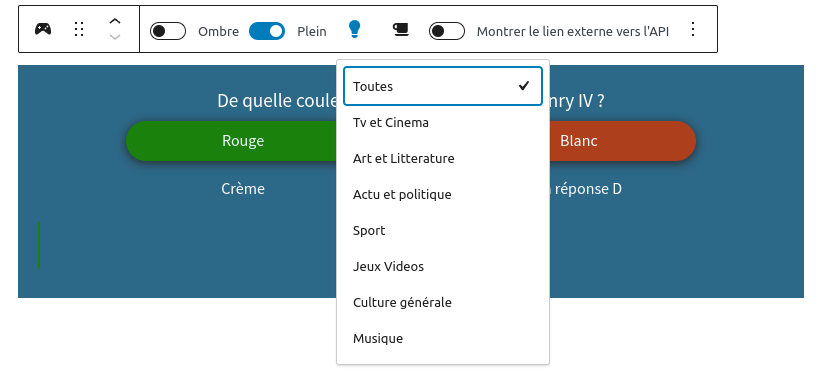
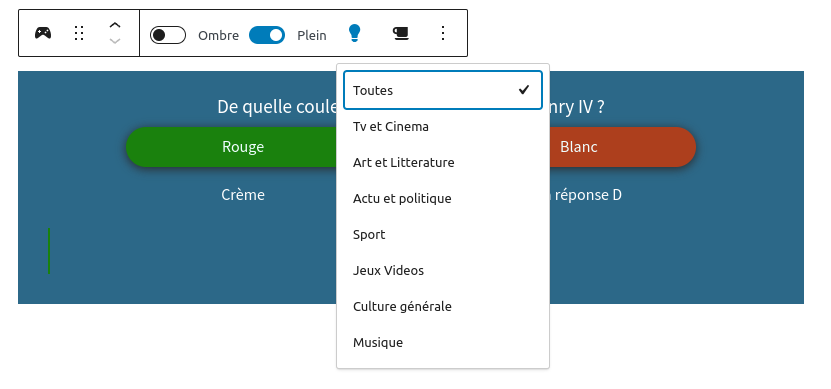
remove attribution

diff --git a/build/index.js b/build/index.js
@@ -1,1 +1,1 @@
-!function(){"use strict";var e,t={888:function(){var e=window.wp.blocks,t=window.wp.element,l=(window.wp.i18n,window.wp.blockEditor),i=window.wp.components,n=e=>{let{attributes:l,setAttributes:n}=e;return(0,t.createElement)(i.ToggleControl,{label:"Ombre",checked:l.elevation,onChange:()=>n({elevation:!l.elevation}),className:"menu-icon-simplequizblock"})},c=e=>{let{attributes:l,setAttributes:n}=e;return(0,t.createElement)(i.ToggleControl,{label:"Plein",checked:l.fill,onChange:()=>n({fill:!l.fill}),className:"menu-icon-simplequizblock"})},r=e=>{let{attributes:l,setAttributes:n}=e;return(0,t.createElement)(i.DropdownMenu,{icon:"lightbulb",label:"Choisir une catégorie",className:"menu-icon-simplequizblock"},(e=>{let{onClose:c}=e;return(0,t.createElement)(i.MenuGroup,null,(0,t.createElement)(i.MenuItem,{isSelected:"all"===l.category,icon:"all"===l.category?"yes":null,onClick:()=>{n({category:"all"}),c()}},"Toutes"),(0,t.createElement)(i.MenuItem,{isSelected:"tv_cinema"===l.category,icon:"tv_cinema"===l.category?"yes":null,onClick:()=>{n({category:"tv_cinema"}),c()}},"Tv et Cinema"),(0,t.createElement)(i.MenuItem,{isSelected:"art_litterature"===l.category,icon:"art_litterature"===l.category?"yes":null,onClick:()=>{n({category:"art_litterature"}),c()}},"Art et Litterature"),(0,t.createElement)(i.MenuItem,{isSelected:"actu_politique"===l.category,icon:"actu_politique"===l.category?"yes":null,onClick:()=>{n({category:"actu_politique"}),c()}},"Actu et politique"),(0,t.createElement)(i.MenuItem,{isSelected:"sport"===l.category,icon:"sport"===l.category?"yes":null,onClick:()=>{n({category:"sport"}),c()}},"Sport"),(0,t.createElement)(i.MenuItem,{isSelected:"jeux_videos"===l.category,icon:"jeux_videos"===l.category?"yes":null,onClick:()=>{n({category:"jeux_videos"}),c()}},"Jeux Videos"),(0,t.createElement)(i.MenuItem,{isSelected:"culutre_generale"===l.category,icon:"culutre_generale"===l.category?"yes":null,onClick:()=>{n({category:"culutre_generale"}),c()}},"Culture générale"),(0,t.createElement)(i.MenuItem,{isSelected:"musique"===l.category,icon:"musique"===l.category?"yes":null,onClick:()=>{n({category:"musique"}),c()}},"Musique"))}))},o=e=>{let{attributes:l,setAttributes:n}=e;return(0,t.createElement)(i.DropdownMenu,{icon:"coffee",label:"Choisir une difficulté",className:"menu-icon-simplequizblock"},(e=>{let{onClose:c}=e;return(0,t.createElement)(t.Fragment,null,(0,t.createElement)(i.MenuGroup,null,(0,t.createElement)(i.MenuItem,{isSelected:"all"===l.difficulty,icon:"all"===l.difficulty?"yes":null,onClick:()=>{n({difficulty:"all"}),c()}},"Toutes"),(0,t.createElement)(i.MenuItem,{isSelected:"facile"===l.difficulty,icon:"facile"===l.difficulty?"yes":null,onClick:()=>{n({difficulty:"facile"}),c()}},"Facile"),(0,t.createElement)(i.MenuItem,{isSelected:"normal"===l.difficulty,icon:"normal"===l.difficulty?"yes":null,onClick:()=>{n({difficulty:"normal"}),c()}},"Normal"),(0,t.createElement)(i.MenuItem,{isSelected:"difficile"===l.difficulty,icon:"difficile"===l.difficulty?"yes":null,onClick:()=>{n({difficulty:"difficile"}),c()}},"Difficile")))}))},u=e=>{let{attributes:l,setAttributes:n}=e;return(0,t.createElement)(i.ToggleControl,{label:"Montrer le lien externe vers l'API",checked:l.showLink,onChange:()=>n({showLink:!l.showLink}),className:"menu-icon-simplequizblock"})},a=JSON.parse('{"u2":"simplequizblock/simplequizblock"}');(0,e.registerBlockType)(a.u2,{edit:function(e){let{attributes:i,setAttributes:a}=e;return(0,t.createElement)(t.Fragment,null,(0,t.createElement)(l.BlockControls,null,(0,t.createElement)(n,{attributes:i,setAttributes:a}),(0,t.createElement)(c,{attributes:i,setAttributes:a}),(0,t.createElement)(r,{attributes:i,setAttributes:a}),(0,t.createElement)(o,{attributes:i,setAttributes:a}),(0,t.createElement)(u,{attributes:i,setAttributes:a})),(0,t.createElement)("div",(0,l.useBlockProps)(),(0,t.createElement)("div",{className:"simplequizblock-container "+(i.elevation?"simplequizblock-shadow":"")},(0,t.createElement)("div",{className:"simplequizblock-question"},"De quelle couleur est le cheval blanc d'Henry IV ?"),(0,t.createElement)("div",{className:"simplequizblock-answers"},(0,t.createElement)("div",{className:"simplequizblock-unique-answer "+(i.fill?"simplequizblock-good-fill":"simplequizblock-good-border")},"Rouge"),(0,t.createElement)("div",{className:"simplequizblock-unique-answer "+(i.fill?"simplequizblock-bad-fill":"simplequizblock-bad-border")},"Blanc"),(0,t.createElement)("div",{className:"simplequizblock-unique-answer"},"Crème"),(0,t.createElement)("div",{className:"simplequizblock-unique-answer"},"La réponse D")),(0,t.createElement)("div",{className:"simplequizblock-result"},(0,t.createElement)("div",{className:"simplequizblock-good-answer"},"'Félicitation ! 🥳'"),i.showLink?(0,t.createElement)("div",{className:"simplequizblock-signature"},(0,t.createElement)("p",{class:"simplequizblock-signature-link"},"Proposez vos questions")):null))))}})}},l={};function i(e){var n=l[e];if(void 0!==n)return n.exports;var c=l[e]={exports:{}};return t[e](c,c.exports,i),c.exports}i.m=t,e=[],i.O=function(t,l,n,c){if(!l){var r=1/0;for(s=0;s<e.length;s++){l=e[s][0],n=e[s][1],c=e[s][2];for(var o=!0,u=0;u<l.length;u++)(!1&c||r>=c)&&Object.keys(i.O).every((function(e){return i.O[e](l[u])}))?l.splice(u--,1):(o=!1,c<r&&(r=c));if(o){e.splice(s--,1);var a=n();void 0!==a&&(t=a)}}return t}c=c||0;for(var s=e.length;s>0&&e[s-1][2]>c;s--)e[s]=e[s-1];e[s]=[l,n,c]},i.o=function(e,t){return Object.prototype.hasOwnProperty.call(e,t)},function(){var e={826:0,431:0};i.O.j=function(t){return 0===e[t]};var t=function(t,l){var n,c,r=l[0],o=l[1],u=l[2],a=0;if(r.some((function(t){return 0!==e[t]}))){for(n in o)i.o(o,n)&&(i.m[n]=o[n]);if(u)var s=u(i)}for(t&&t(l);a<r.length;a++)c=r[a],i.o(e,c)&&e[c]&&e[c][0](),e[c]=0;return i.O(s)},l=self.webpackChunksimplequizblock=self.webpackChunksimplequizblock||[];l.forEach(t.bind(null,0)),l.push=t.bind(null,l.push.bind(l))}();var n=i.O(void 0,[431],(function(){return i(888)}));n=i.O(n)}();
+!function(){"use strict";var e,t={255:function(){var e=window.wp.blocks,t=window.wp.element,l=(window.wp.i18n,window.wp.blockEditor),i=window.wp.components,n=e=>{let{attributes:l,setAttributes:n}=e;return(0,t.createElement)(i.ToggleControl,{label:"Ombre",checked:l.elevation,onChange:()=>n({elevation:!l.elevation}),className:"menu-icon-simplequizblock"})},c=e=>{let{attributes:l,setAttributes:n}=e;return(0,t.createElement)(i.ToggleControl,{label:"Plein",checked:l.fill,onChange:()=>n({fill:!l.fill}),className:"menu-icon-simplequizblock"})},r=e=>{let{attributes:l,setAttributes:n}=e;return(0,t.createElement)(i.DropdownMenu,{icon:"lightbulb",label:"Choisir une catégorie",className:"menu-icon-simplequizblock"},(e=>{let{onClose:c}=e;return(0,t.createElement)(i.MenuGroup,null,(0,t.createElement)(i.MenuItem,{isSelected:"all"===l.category,icon:"all"===l.category?"yes":null,onClick:()=>{n({category:"all"}),c()}},"Toutes"),(0,t.createElement)(i.MenuItem,{isSelected:"tv_cinema"===l.category,icon:"tv_cinema"===l.category?"yes":null,onClick:()=>{n({category:"tv_cinema"}),c()}},"Tv et Cinema"),(0,t.createElement)(i.MenuItem,{isSelected:"art_litterature"===l.category,icon:"art_litterature"===l.category?"yes":null,onClick:()=>{n({category:"art_litterature"}),c()}},"Art et Litterature"),(0,t.createElement)(i.MenuItem,{isSelected:"actu_politique"===l.category,icon:"actu_politique"===l.category?"yes":null,onClick:()=>{n({category:"actu_politique"}),c()}},"Actu et politique"),(0,t.createElement)(i.MenuItem,{isSelected:"sport"===l.category,icon:"sport"===l.category?"yes":null,onClick:()=>{n({category:"sport"}),c()}},"Sport"),(0,t.createElement)(i.MenuItem,{isSelected:"jeux_videos"===l.category,icon:"jeux_videos"===l.category?"yes":null,onClick:()=>{n({category:"jeux_videos"}),c()}},"Jeux Videos"),(0,t.createElement)(i.MenuItem,{isSelected:"culutre_generale"===l.category,icon:"culutre_generale"===l.category?"yes":null,onClick:()=>{n({category:"culutre_generale"}),c()}},"Culture générale"),(0,t.createElement)(i.MenuItem,{isSelected:"musique"===l.category,icon:"musique"===l.category?"yes":null,onClick:()=>{n({category:"musique"}),c()}},"Musique"))}))},o=e=>{let{attributes:l,setAttributes:n}=e;return(0,t.createElement)(i.DropdownMenu,{icon:"coffee",label:"Choisir une difficulté",className:"menu-icon-simplequizblock"},(e=>{let{onClose:c}=e;return(0,t.createElement)(t.Fragment,null,(0,t.createElement)(i.MenuGroup,null,(0,t.createElement)(i.MenuItem,{isSelected:"all"===l.difficulty,icon:"all"===l.difficulty?"yes":null,onClick:()=>{n({difficulty:"all"}),c()}},"Toutes"),(0,t.createElement)(i.MenuItem,{isSelected:"facile"===l.difficulty,icon:"facile"===l.difficulty?"yes":null,onClick:()=>{n({difficulty:"facile"}),c()}},"Facile"),(0,t.createElement)(i.MenuItem,{isSelected:"normal"===l.difficulty,icon:"normal"===l.difficulty?"yes":null,onClick:()=>{n({difficulty:"normal"}),c()}},"Normal"),(0,t.createElement)(i.MenuItem,{isSelected:"difficile"===l.difficulty,icon:"difficile"===l.difficulty?"yes":null,onClick:()=>{n({difficulty:"difficile"}),c()}},"Difficile")))}))},u=JSON.parse('{"u2":"simplequizblock/simplequizblock"}');(0,e.registerBlockType)(u.u2,{edit:function(e){let{attributes:i,setAttributes:u}=e;return(0,t.createElement)(t.Fragment,null,(0,t.createElement)(l.BlockControls,null,(0,t.createElement)(n,{attributes:i,setAttributes:u}),(0,t.createElement)(c,{attributes:i,setAttributes:u}),(0,t.createElement)(r,{attributes:i,setAttributes:u}),(0,t.createElement)(o,{attributes:i,setAttributes:u})),(0,t.createElement)("div",(0,l.useBlockProps)(),(0,t.createElement)("div",{className:"simplequizblock-container "+(i.elevation?"simplequizblock-shadow":"")},(0,t.createElement)("div",{className:"simplequizblock-question"},"De quelle couleur est le cheval blanc d'Henry IV ?"),(0,t.createElement)("div",{className:"simplequizblock-answers"},(0,t.createElement)("div",{className:"simplequizblock-unique-answer "+(i.fill?"simplequizblock-good-fill":"simplequizblock-good-border")},"Rouge"),(0,t.createElement)("div",{className:"simplequizblock-unique-answer "+(i.fill?"simplequizblock-bad-fill":"simplequizblock-bad-border")},"Blanc"),(0,t.createElement)("div",{className:"simplequizblock-unique-answer"},"Crème"),(0,t.createElement)("div",{className:"simplequizblock-unique-answer"},"La réponse D")),(0,t.createElement)("div",{className:"simplequizblock-result"},(0,t.createElement)("div",{className:"simplequizblock-good-answer"},"'Félicitation ! 🥳'")))))}})}},l={};function i(e){var n=l[e];if(void 0!==n)return n.exports;var c=l[e]={exports:{}};return t[e](c,c.exports,i),c.exports}i.m=t,e=[],i.O=function(t,l,n,c){if(!l){var r=1/0;for(s=0;s<e.length;s++){l=e[s][0],n=e[s][1],c=e[s][2];for(var o=!0,u=0;u<l.length;u++)(!1&c||r>=c)&&Object.keys(i.O).every((function(e){return i.O[e](l[u])}))?l.splice(u--,1):(o=!1,c<r&&(r=c));if(o){e.splice(s--,1);var a=n();void 0!==a&&(t=a)}}return t}c=c||0;for(var s=e.length;s>0&&e[s-1][2]>c;s--)e[s]=e[s-1];e[s]=[l,n,c]},i.o=function(e,t){return Object.prototype.hasOwnProperty.call(e,t)},function(){var e={826:0,431:0};i.O.j=function(t){return 0===e[t]};var t=function(t,l){var n,c,r=l[0],o=l[1],u=l[2],a=0;if(r.some((function(t){return 0!==e[t]}))){for(n in o)i.o(o,n)&&(i.m[n]=o[n]);if(u)var s=u(i)}for(t&&t(l);a<r.length;a++)c=r[a],i.o(e,c)&&e[c]&&e[c][0](),e[c]=0;return i.O(s)},l=self.webpackChunksimplequizblock=self.webpackChunksimplequizblock||[];l.forEach(t.bind(null,0)),l.push=t.bind(null,l.push.bind(l))}();var n=i.O(void 0,[431],(function(){return i(255)}));n=i.O(n)}();

diff --git a/src/edit.js b/src/edit.js
@@ -39,7 +39,6 @@ import ElevationToggle from './components/ElevationToggle';
 import FillAnswerToggle from './components/FillAnswerToggle';
 import CategoryDropDown from './components/CategoryDropDown';
 import DifficultyDropDown from './components/DifficultyDropDown';
-import ShowLinkToggle from './components/ShowLinkToggle';
 
 export default function Edit({ attributes, setAttributes }) {
 
@@ -50,7 +49,6 @@ export default function Edit({ attributes, setAttributes }) {
 				<FillAnswerToggle attributes={attributes} setAttributes={setAttributes} />
 				<CategoryDropDown attributes={attributes} setAttributes={setAttributes} />
 				<DifficultyDropDown attributes={attributes} setAttributes={setAttributes} />
-				<ShowLinkToggle attributes={attributes} setAttributes={setAttributes} />
 
 			</BlockControls>
 
@@ -71,10 +69,6 @@ export default function Edit({ attributes, setAttributes }) {
 						<div className='simplequizblock-good-answer'>
 							'Félicitation ! 🥳'
 						</div>
-						{attributes.showLink ?
-							<div className="simplequizblock-signature"><p class="simplequizblock-signature-link">Proposez vos questions</p></div>
-							: null
-						}
 					</div>
 				</div>
 			</div>

diff --git a/public/show_quiz_response.php b/public/show_quiz_response.php
@@ -1,4 +1,5 @@
 <?php
+
 /**
  * Function that return the render
  * @param $cat String Category from this enum ["tv_cinema", "art_litterature", "musique", "actu_politique", "culture_generale", "sport", "jeux_videos", "all"]
@@ -20,10 +21,10 @@ function simplequizblock_show_quiz_response($attributes, $url)
   $response = json_decode($response);
 
   // if there isn't any corresponding quiz, just selected a random quiz from all the DB
-  if($response->count == 0){
-  $response = wp_remote_get($url);
-  $response = $response['body'];
-  $response = json_decode($response);
+  if ($response->count == 0) {
+    $response = wp_remote_get($url);
+    $response = $response['body'];
+    $response = json_decode($response);
   }
 
   // Get data to display
@@ -35,13 +36,13 @@ function simplequizblock_show_quiz_response($attributes, $url)
   $allAnswers[] = $answer;
   shuffle($allAnswers);
   // generate Unique Id to allow multiple quiz block on a single page
-  $str=rand();
+  $str = rand();
   $randomId = md5($str);
 
 ?>
-    <!-- Pass the Unique ID through an hidden DIV, and attribute this ID to the main div -->
-    <div class="simplequizblock-random-id" hidden><?php echo esc_html($randomId); ?></div>
-  <div class="simplequizblock-container <?php echo $attributes['elevation'] ? esc_attr("simplequizblock-shadow") : null;?>" id="<?php echo esc_attr($randomId); ?>">
+  <!-- Pass the Unique ID through an hidden DIV, and attribute this ID to the main div -->
+  <div class="simplequizblock-random-id" hidden><?php echo esc_html($randomId); ?></div>
+  <div class="simplequizblock-container <?php echo $attributes['elevation'] ? esc_attr("simplequizblock-shadow") : null; ?>" id="<?php echo esc_attr($randomId); ?>">
     <div class="simplequizblock-question">
       <?php echo esc_html($question); ?>
     </div>
@@ -56,7 +57,6 @@ function simplequizblock_show_quiz_response($attributes, $url)
       ?>
     </div>
     <div class="simplequizblock-result" hidden>
-      <div class="simplequizblock-signature"  <?php echo $attributes['showLink'] ? null : esc_attr("hidden"); ?>><a class="simplequizblock-signature-link" href="https://quizzapi.jomoreschi.fr/" target="_blank">Proposez vos questions</a></div>
     </div>
     <!-- Pass the good Answer through an Hidden div -->
     <div class="simplequizblock-good" hidden><?php echo esc_html($answer); ?></div>

diff --git a/build/index.asset.php b/build/index.asset.php
@@ -1,1 +1,1 @@
-<?php return array('dependencies' => array('wp-block-editor', 'wp-blocks', 'wp-components', 'wp-element', 'wp-i18n'), 'version' => '41bf5123103704e441a9');
+<?php return array('dependencies' => array('wp-block-editor', 'wp-blocks', 'wp-components', 'wp-element', 'wp-i18n'), 'version' => '688a62fb937bb153d2f3');
